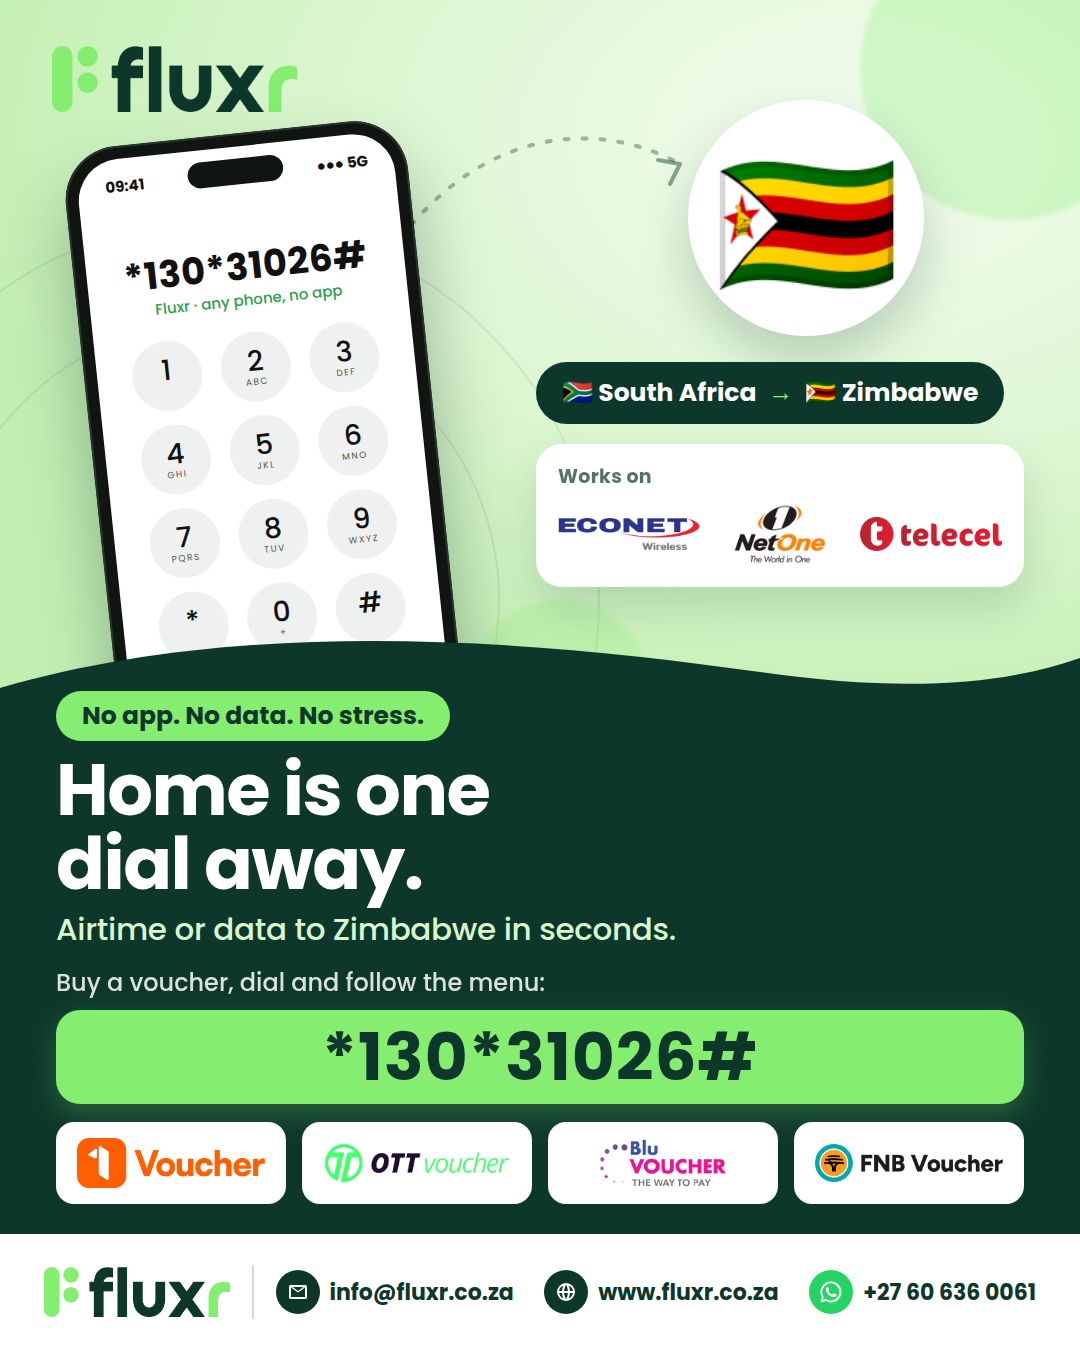
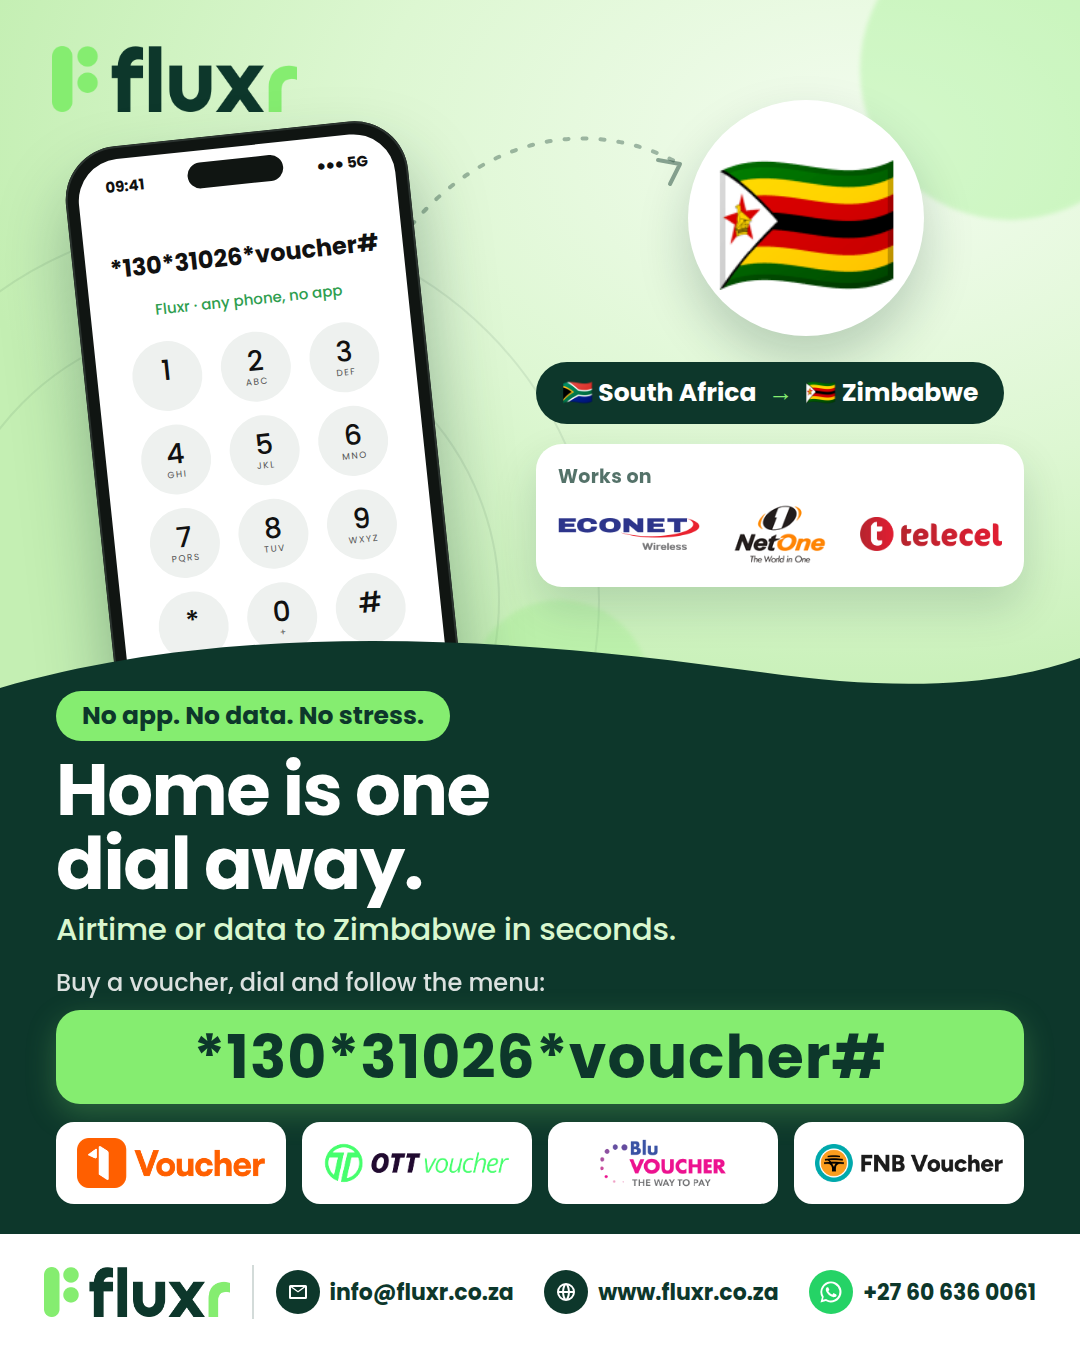
Default dial code *130*31026*voucher#
Claude-Session: https://claude.ai/code/session_01NYHXj6KqUtsP9Mqmbvdsyw

Changed region(s): [[0.1833, 0.7467, 0.825, 0.8089], [0.0917, 0.1556, 0.3667, 0.2178]]

diff --git a/kit/render.py b/kit/render.py
@@ -13,8 +13,8 @@ config.json keys (all strings unless noted):
   pill           short tag in the lime pill, e.g. "No app needed"
   headline       big white headline, keep it under ~16 characters per line; use \n for a 2nd line
   sub            one line under the headline, e.g. "Airtime or data to Zimbabwe in seconds."
-  code           dial code shown in the lime bar. Default "*130*31026#".
-                 Long form sometimes: "*130*31026*voucher*263Number#"
+  code           dial code shown in the lime bar. Default (most posts) "*130*31026*voucher#".
+                 Long form now and then: "*130*31026*voucher*263Number#"
   code_label     text above the bar. Default "Buy a voucher, dial and follow the menu:"
   networks_label text above the network logos. Default "Works on"
   theme          "mint" (default) or "sunset" or "sky" - background of the top area
@@ -40,9 +40,9 @@ VOUCHERS = ["1voucher.png", "ott-voucher.png", "blu-voucher.png", "fnb-voucher.p
 def build_html(cfg):
     e = lambda s: html.escape(str(s))
     theme = THEMES.get(cfg.get("theme", "mint"), THEMES["mint"])
-    code = cfg.get("code", "*130*31026#")
+    code = cfg.get("code", "*130*31026*voucher#")
     code_len = len(code)
-    code_size = 66 if code_len <= 14 else (46 if code_len <= 26 else 38)
+    code_size = 66 if code_len <= 14 else (60 if code_len <= 20 else (46 if code_len <= 26 else 38))
     headline = e(cfg["headline"]).replace("\\n", "<br>").replace("\n", "<br>")
     two_line = "<br>" in headline
     nets = "".join(f'<div class="net"><img src="logos/{e(n)}"></div>' for n in cfg.get("networks", []))
@@ -113,7 +113,7 @@ h1{{margin-top:12px;color:#fff;font-weight:700;font-size:{72 if two_line else 84
     <path d="M300 60 l-22 -4 m22 4 l-10 20" stroke="#0D372B" stroke-opacity=".45" stroke-width="4" stroke-linecap="round" fill="none"/></svg>
   <div class="phone"><div class="screen"><div class="notch"></div>
     <div class="status"><span>09:41</span><span>●●● 5G</span></div>
-    <div class="dialed">{e(code if len(code) <= 14 else "*130*31026#")}</div>
+    <div class="dialed" style="font-size:{37 if len(code) <= 14 else 24}px;letter-spacing:0">{e(code if len(code) <= 20 else "*130*31026*voucher#")}</div>
     <div class="dialsub">Fluxr · any phone, no app</div>
     <div class="keypad">{keypad}</div>
     <div class="call">{ICON_CALL}</div>
